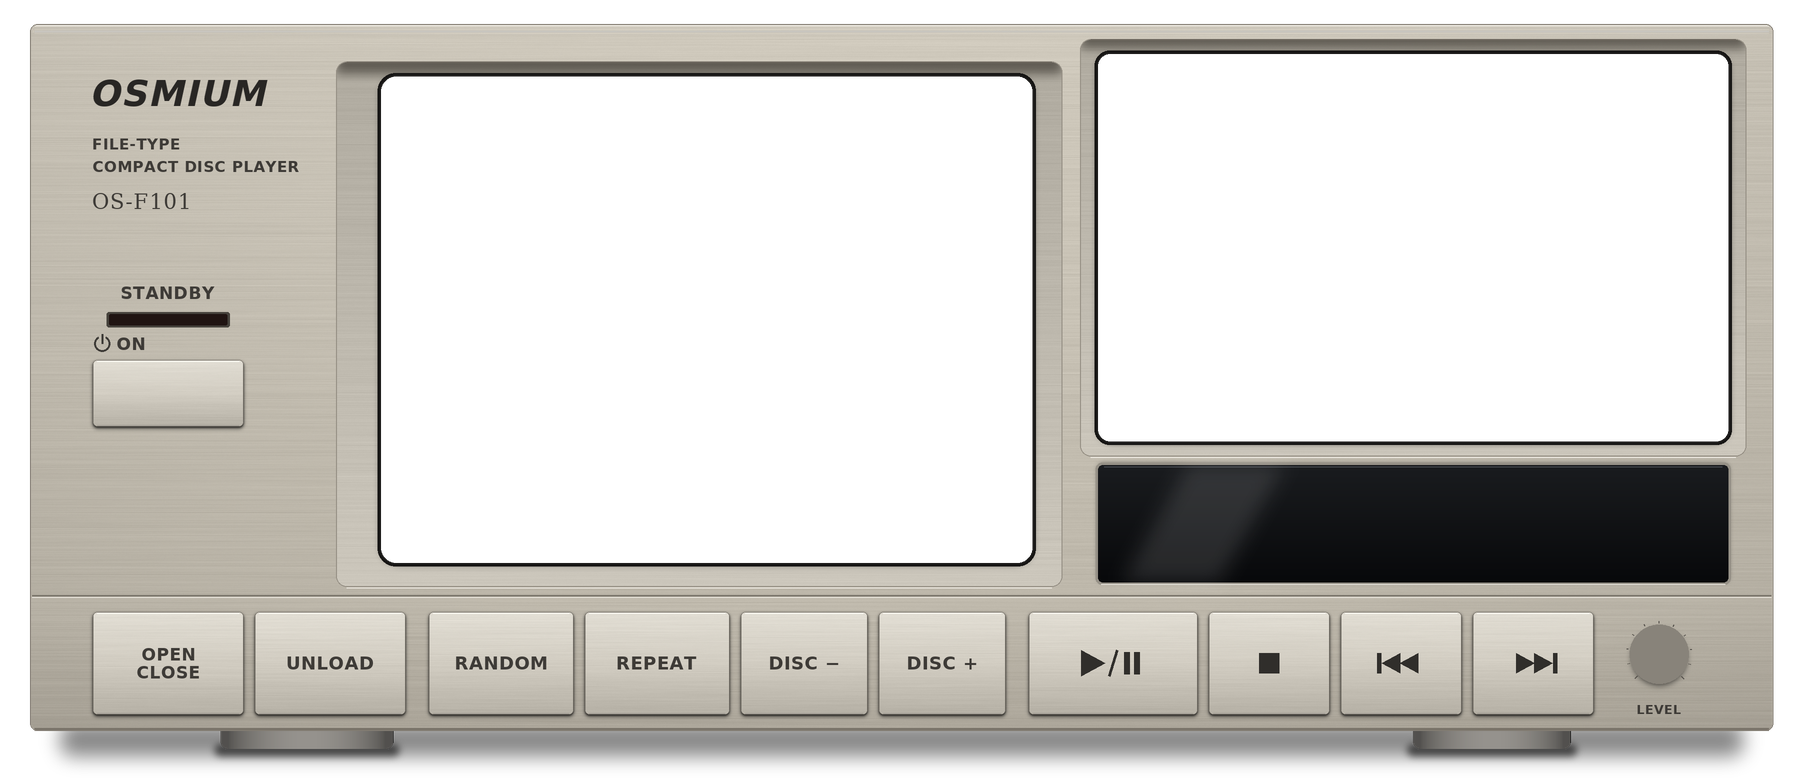
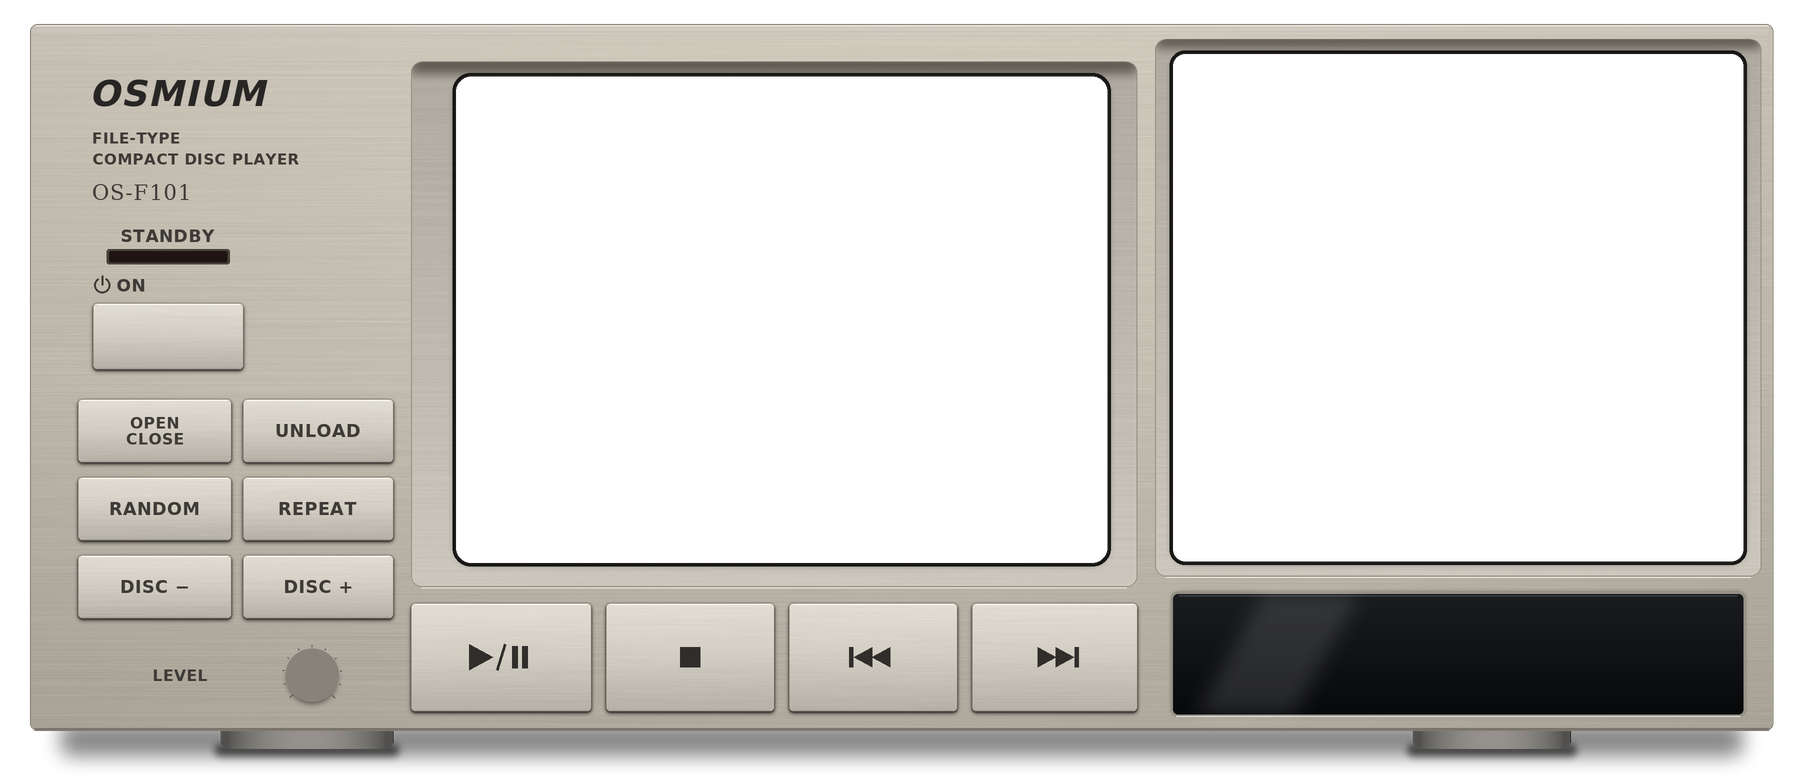
changer: one face, keys left and under the file, the drive window right
No lower strip any more. Left: the name, the standby key with its light
(green when on, red in standby) and six keys in a grid under it (open/
close, unload, random, repeat, disc -/+), the level knob at the foot.
Middle: the file's window with the transport keys under it. Right: the
drive's window nearly full height, its disc larger (154 instead of
120), and the display under it, its disc number set further apart from
the track.

Changed region(s): [[0.0311, 0.0308, 0.9956, 0.9231]]

diff --git a/native-ui-qt/qml/AnimChanger.qml b/native-ui-qt/qml/AnimChanger.qml
@@ -63,10 +63,10 @@ Item {
     function px(v) { return Math.max(1, Math.round(v * root.texScale)) }
 
     // changer.py: GLASS, LOADER_X, DISC_D, KEYS, ROUND, KNOB
-    readonly property var glass: [127, 25.5, 344, 187.5]
+    readonly property var glass: [152, 25.5, 369, 187.5]
     readonly property real winW: glass[2] - glass[0]
     readonly property real winH: glass[3] - glass[1]
-    readonly property real loaderX: 255.5 - glass[0]          // in the window
+    readonly property real loaderX: 128.5                     // in the window
     readonly property real axisX: winW / 2                    // the file's axis
     readonly property real radius: 190                       // to the discs' centres
     readonly property real discD: 128
@@ -79,20 +79,20 @@ Item {
     readonly property real loaderPhi: Math.asin((loaderX - axisX) / radius) * 180 / Math.PI
     readonly property int places: 37                         // discs drawn: those within sight
     // the drive's window (changer.py DRIVE_*)
-    readonly property var driveGlass: [366, 18, 576, 147]
-    readonly property var driveC: [471, 82.5]
-    readonly property real driveDisc: 120
+    readonly property var driveGlass: [391, 18, 581, 187]
+    readonly property var driveC: [486, 102.5]
+    readonly property real driveDisc: 154
 
     readonly property var keys: ({
-        power: [31, 120, 81, 142],
-        eject: [31, 204, 81, 238], unload: [85, 204, 135, 238],
-        random: [143, 204, 191, 238], repeat: [195, 204, 243, 238],
-        discm: [247, 204, 289, 238], discp: [293, 204, 335, 238],
-        play: [343, 204, 399, 238], stop: [403, 204, 443, 238],
-        prev: [447, 204, 487, 238], next: [491, 204, 531, 238]
+        power: [31, 101, 81, 123],
+        eject: [26, 133, 77, 154], unload: [81, 133, 131, 154],
+        random: [26, 159, 77, 180], repeat: [81, 159, 131, 180],
+        discm: [26, 185, 77, 206], discp: [81, 185, 131, 206],
+        play: [137, 201, 197, 237], stop: [202, 201, 258, 237],
+        prev: [263, 201, 319, 237], next: [324, 201, 379, 237]
     })
     readonly property var keyNames: ["power", "random", "repeat", "discm", "discp", "eject", "unload", "play", "stop", "prev", "next"]
-    readonly property var knob: [553, 218]
+    readonly property var knob: [104, 225]
 
     // ── the mechanism ──────────────────────────────────────────────────────
     // drumAngle: the file's turn, in degrees; slot n is at the loader when
@@ -368,7 +368,7 @@ Item {
         if (ch === "-") return "dash"
         return (ch === ch.toUpperCase() ? "u" : "l") + ch.toLowerCase()
     }
-    readonly property var cellX: [410, 422.2, 434.4, 461.4, 473.6, 500.6, 512.8, 532, 544.2]   // changer.py CELL_W 11, CELL_H 19, CELL_Y 163
+    readonly property var cellX: [426, 438.2, 450.4, 478, 490.2, 515, 527.2, 546.6, 558.8]   // changer.py CELL_W 11, CELL_H 19, CELL_Y 206
 
     component Pic: Image {
         smooth: true
@@ -667,45 +667,46 @@ Item {
 
         Pic { id: base; width: 600; height: 260; source: root.assetsBase + "base.png" }
 
+
         Pic {
-            x: 31; y: 100.5; width: 50; height: 12
-            source: root.assetsBase + "led-standby.png"
-            visible: root.live && !root.power
+            x: 31; y: 79.5; width: 50; height: 12
+            // the standby key's light: green when on, red in standby
+            source: root.assetsBase + (root.live && !root.power ? "led-standby.png" : "led-on.png")
         }
 
         // ── the fluorescent display ────────────────────────────────────────
         Item {
             visible: !root.live || root.power
-            Pic { x: 366; y: 155; width: 210; height: 39; source: root.assetsBase + "vfd-panel.png" }
+            Pic { x: 391; y: 198; width: 190; height: 40; source: root.assetsBase + "vfd-panel.png" }
             Repeater {
                 model: 9
                 Pic {
                     required property int index
                     readonly property string ch: root.cells.length === 9 ? root.cells.charAt(index) : " "
-                    x: root.cellX[index] - 1; y: 162; width: 13; height: 21
+                    x: root.cellX[index] - 1; y: 205; width: 13; height: 21
                     visible: ch !== " "
                     source: ch === " " ? "" : root.assetsBase + "g-" + root.glyph(ch) + ".png"
                 }
             }
-            Pic { x: 524.9; y: 162; width: 6; height: 21; source: root.assetsBase + "g-colon.png"; visible: root.timeShown }
+            Pic { x: 539.4; y: 205; width: 6; height: 21; source: root.assetsBase + "g-colon.png"; visible: root.timeShown }
             Pic {
-                x: 409; y: 184; width: 9; height: 9; source: root.assetsBase + "ind-play.png"
+                x: 425; y: 227; width: 9; height: 9; source: root.assetsBase + "ind-play.png"
                 visible: root.timeShown && (root.playing || !root.live)
             }
             Pic {
-                x: 419; y: 184; width: 9; height: 9; source: root.assetsBase + "ind-pause.png"
+                x: 435; y: 227; width: 9; height: 9; source: root.assetsBase + "ind-pause.png"
                 visible: root.timeShown && root.live && !root.playing && root.elapsed > 0
             }
-            Pic { x: 453; y: 186; width: 24.5; height: 6; source: root.assetsBase + "ind-repeat.png"; visible: root.repeatMode > 0 || !root.live }
-            Pic { x: 479; y: 186; width: 12.83; height: 6; source: root.assetsBase + "ind-all.png"; visible: root.repeatMode === 2 || !root.live }
-            Pic { x: 479; y: 185.9; width: 5.17; height: 6.17; source: root.assetsBase + "ind-one.png"; visible: root.live && root.repeatMode === 1 }
-            Pic { x: 497; y: 186; width: 27.83; height: 6; source: root.assetsBase + "ind-random.png"; visible: root.live && root.shuffleMode > 0 }
+            Pic { x: 472; y: 229; width: 24.5; height: 6; source: root.assetsBase + "ind-repeat.png"; visible: root.repeatMode > 0 || !root.live }
+            Pic { x: 498; y: 229; width: 12.83; height: 6; source: root.assetsBase + "ind-all.png"; visible: root.repeatMode === 2 || !root.live }
+            Pic { x: 498; y: 228.9; width: 5.17; height: 6.17; source: root.assetsBase + "ind-one.png"; visible: root.live && root.repeatMode === 1 }
+            Pic { x: 515; y: 229; width: 27.83; height: 6; source: root.assetsBase + "ind-random.png"; visible: root.live && root.shuffleMode > 0 }
         }
 
         // ── the level knob: the volume ─────────────────────────────────────
         Pic {
             id: knobPic
-            x: root.knob[0] - 9.4; y: root.knob[1] - 9.4; width: 18.8; height: 18.8
+            x: root.knob[0] - 8.4; y: root.knob[1] - 8.4; width: 16.8; height: 16.8
             source: root.assetsBase + "knob.png"
             rotation: -135 + 270 * (knobArea.level >= 0 ? knobArea.level : root.volume >= 0 ? root.volume : 40) / 100
             opacity: root.live && root.volumeFixed ? 0.6 : 1

diff --git a/native-ui-qt/tools/np-anim/changer.py b/native-ui-qt/tools/np-anim/changer.py
@@ -30,45 +30,47 @@ SERIF = '/usr/share/fonts/truetype/dejavu/DejaVuSerif.ttf'
 
 # ── geometry (units) ──────────────────────────────────────────────────────
 BODY = (10, 8, 591, 243.5)
-SPLIT_Y = 198.5                      # the lower strip of the face
-RECESS = (112, 20.5, 354, 195.5)     # the window's sunken frame
-GLASS = (127, 25.5, 344, 187.5)      # the hole: the mechanism shows here
+# one face, no lower strip: left the name, standby and six keys; in the
+# middle the file's window with the transport keys under it; right the
+# drive's window nearly full height and the display under it
+RECESS = (137, 20.5, 379, 195.5)     # the window's sunken frame
+GLASS = (152, 25.5, 369, 187.5)      # the hole: the mechanism shows here
 GLASS_R = 5
 # the drive's window, top right: the disc brought from the file onto the
 # laser lens and turning, seen straight from above like the top-loading CD
 # scene (whose disc pictures, assets/anim/cd/, it uses)
-DRIVE_RECESS = (360, 13, 582, 152)
-DRIVE_GLASS = (366, 18, 576, 147)
+DRIVE_RECESS = (385, 13, 587, 192)
+DRIVE_GLASS = (391, 18, 581, 187)
 DRIVE_R = 4
-DRIVE_C = (471, 82.5)                # the spindle
-DRIVE_DISC = 120                     # the disc's diameter there
-VFD = (366, 155, 576, 194)
+DRIVE_C = (486, 102.5)               # the spindle
+DRIVE_DISC = 154                     # the disc's diameter there
+VFD = (391, 198, 581, 238)
 FEET = [(73.5, 131), (471, 523.5)]
 FOOT_Y = (238, 249.5)
 
 # 🚨 Drawn for a screen, not to the real thing's scale: in the Now Playing
 # panel the whole front is ~560 px wide, so the keys are few and large and
 # the lettering is 3.5-6 units tall (the real one's would be 2-3 px).
-# every key but standby along the bottom strip, in three groups
+# standby, then six keys in a grid under it; the transport under the file
 KEYS = {
-    'power': (31, 120, 81, 142),
-    'eject': (31, 204, 81, 238), 'unload': (85, 204, 135, 238),
-    'random': (143, 204, 191, 238), 'repeat': (195, 204, 243, 238),
-    'discm': (247, 204, 289, 238), 'discp': (293, 204, 335, 238),
-    'play': (343, 204, 399, 238), 'stop': (403, 204, 443, 238),
-    'prev': (447, 204, 487, 238), 'next': (491, 204, 531, 238),
+    'power': (31, 101, 81, 123),
+    'eject': (26, 133, 77, 154), 'unload': (81, 133, 131, 154),
+    'random': (26, 159, 77, 180), 'repeat': (81, 159, 131, 180),
+    'discm': (26, 185, 77, 206), 'discp': (81, 185, 131, 206),
+    'play': (137, 201, 197, 237), 'stop': (202, 201, 258, 237),
+    'prev': (263, 201, 319, 237), 'next': (324, 201, 379, 237),
 }
-KNOB = (553, 218)
-KNOB_R = 9
+KNOB = (104, 225)
+KNOB_R = 8
 
 # the window's insides
-LOADER_X = 255.5                     # the loader's column (the LEDs)
+LOADER_X = GLASS[0] + 128.5          # the loader's column (the LEDs)
 LEDS = [(LOADER_X, 116), (LOADER_X, 123.5), (LOADER_X, 131.5)]
 DISC_D = 128                         # disc diameter in units
 VFD_COL = (196, 236, 255)
 
 # the display cells (glyph pictures one unit larger all round, for the glow)
-CELL_W, CELL_H, CELL_Y = 11, 19, 163
+CELL_W, CELL_H, CELL_Y = 11, 19, 206
 
 
 def font(path, size):
@@ -273,9 +275,8 @@ def base():
     # the body
     m = shape_mask(img.size, BODY, 2.5)
     arr = np.zeros((h, w, 3), np.float32)
-    top, split, bot = px(BODY[1]), px(SPLIT_Y), px(BODY[3])
-    arr[top:split] = vgrad(w, split - top, (208, 202, 189), (190, 184, 171), mid=(201, 195, 182))
-    arr[split:bot] = vgrad(w, bot - split, (194, 188, 175), (172, 166, 154))
+    top, bot = px(BODY[1]), px(BODY[3])
+    arr[top:bot] = vgrad(w, bot - top, (208, 202, 189), (176, 170, 158), mid=(198, 192, 179))
     arr += brushed(w, h, 11, 2.4)[..., None]
     # light falling off to the left and right ends
     xs = np.linspace(-1, 1, w, dtype=np.float32)
@@ -287,9 +288,6 @@ def base():
     d.rectangle(box((BODY[0] + 1.5, BODY[1] + 2.2, BODY[2] - 1.5, BODY[1] + 2.6)), fill=(168, 162, 151, 160))
     d.rectangle(box((BODY[0] + 1.5, BODY[3] - 0.8, BODY[2] - 1.5, BODY[3])), fill=(120, 114, 104, 255))
     d.rounded_rectangle(box(BODY), px(2.5), outline=(130, 124, 114, 255), width=px(0.3))
-    # the groove between the face and the lower strip
-    d.line([px(BODY[0] + 0.6), px(SPLIT_Y), px(BODY[2] - 0.6), px(SPLIT_Y)], fill=(122, 117, 107, 255), width=px(0.45))
-    d.line([px(BODY[0] + 0.6), px(SPLIT_Y + 0.55), px(BODY[2] - 0.6), px(SPLIT_Y + 0.55)], fill=(226, 222, 213, 255), width=px(0.3))
 
     # the window
     recess(img, RECESS, 3.5)
@@ -330,26 +328,26 @@ def base():
 
     # the name and the printing
     text(img, 'OSMIUM', 31, 31, 12, (40, 38, 36, 255), anchor='lm', path=SANSB, spacing=0.3, italic=0.22)
-    text(img, 'FILE-TYPE', 31, 48, 5.0, INK, anchor='lm', path=SANSB, spacing=0.2)
-    text(img, 'COMPACT DISC PLAYER', 31, 55.5, 5.0, INK, anchor='lm', path=SANSB, spacing=0.1)
-    text(img, 'OS-F101', 31, 67, 7.0, INK, anchor='lm', path=SERIF, spacing=0.3)
-    text(img, 'STANDBY', 56, 97.5, 5.6, INK, path=SANSB, spacing=0.2)
+    text(img, 'FILE-TYPE', 31, 46, 5.0, INK, anchor='lm', path=SANSB, spacing=0.2)
+    text(img, 'COMPACT DISC PLAYER', 31, 53, 5.0, INK, anchor='lm', path=SANSB, spacing=0.1)
+    text(img, 'OS-F101', 31, 64, 7.0, INK, anchor='lm', path=SERIF, spacing=0.3)
+    text(img, 'STANDBY', 56, 78.5, 5.6, INK, path=SANSB, spacing=0.2)
     d = ImageDraw.Draw(img)
-    d.rounded_rectangle(box((35.5, 104, 76.5, 109)), px(0.8), fill=(70, 66, 60, 255))
-    d.rounded_rectangle(box((36.3, 104.7, 75.7, 108.3)), px(0.5), fill=(32, 20, 18, 255))
+    d.rounded_rectangle(box((35.5, 83, 76.5, 88)), px(0.8), fill=(70, 66, 60, 255))
+    d.rounded_rectangle(box((36.3, 83.7, 75.7, 87.3)), px(0.5), fill=(32, 20, 18, 255))
     # power symbol + STANDBY/ON
-    cx, cy, rr = 34, 114.5, 2.6
+    cx, cy, rr = 34, 95, 2.6
     d.arc(box((cx - rr, cy - rr, cx + rr, cy + rr)), -60, 240, fill=INK, width=px(0.7))
     d.line([px(cx), px(cy - rr - 0.6), px(cx), px(cy)], fill=INK, width=px(0.7))
-    text(img, 'ON', 39, 114.5, 5.6, INK, anchor='lm', path=SANSB, spacing=0.2)
+    text(img, 'ON', 39, 95, 5.6, INK, anchor='lm', path=SANSB, spacing=0.2)
     labels = {'power': None, 'random': 'RANDOM', 'repeat': 'REPEAT', 'discm': 'DISC \u2212', 'discp': 'DISC +',
               'eject': 'OPEN\nCLOSE', 'unload': 'UNLOAD'}
     syms = {'play': 'playpause', 'stop': 'stop', 'prev': 'prev', 'next': 'next'}
     for k, b in KEYS.items():
-        size = 5.6 if k == 'eject' else 6.0
+        size = 5.2 if k == 'eject' else 5.8
         keycap(img, b, label=labels.get(k), lsize=size, sym=syms.get(k), symk=2.2)
 
-    text(img, 'LEVEL', KNOB[0], 236.5, 4.2, INK, path=SANSB, spacing=0.1)
+    text(img, 'LEVEL', 60, KNOB[1], 5.2, INK, path=SANSB, spacing=0.15)
     d = ImageDraw.Draw(img)
     # the knob's collar and shadow (the knob itself turns: knob.png)
     kx, ky = KNOB
@@ -388,25 +386,26 @@ def knob():
     save(finish(img, k=8), 'knob.png')
 
 
-def standby_led():
-    b = (36.3, 104.7, 75.7, 108.3)
+def standby_led(name, glow_rgb, core_rgb, hot_rgb):
+    """The light over the standby key: red in standby, green when on."""
+    b = (36.3, 83.7, 75.7, 87.3)
     img = canvas(50, 12)
-    ox, oy = 31, 100.5
+    ox, oy = 31, 79.5
     g = Image.new('L', img.size, 0)
     ImageDraw.Draw(g).rounded_rectangle(box((b[0] - ox, b[1] - oy, b[2] - ox, b[3] - oy)), px(0.4), fill=255)
     glow = g.filter(ImageFilter.GaussianBlur(px(1.4)))
-    lay = Image.new('RGBA', img.size, (255, 40, 30, 0))
+    lay = Image.new('RGBA', img.size, glow_rgb + (0,))
     lay.putalpha(glow.point(lambda v: int(v * 0.55)))
     img.alpha_composite(lay)
-    core = Image.new('RGBA', img.size, (255, 70, 55, 0))
+    core = Image.new('RGBA', img.size, core_rgb + (0,))
     core.putalpha(g)
     img.alpha_composite(core)
     hot = Image.new('L', img.size, 0)
     ImageDraw.Draw(hot).rounded_rectangle(box((b[0] - ox + 1, b[1] - oy + 0.6, b[2] - ox - 1, b[3] - oy - 0.6)), px(0.3), fill=150)
-    lay = Image.new('RGBA', img.size, (255, 190, 170, 0))
+    lay = Image.new('RGBA', img.size, hot_rgb + (0,))
     lay.putalpha(hot.filter(ImageFilter.GaussianBlur(px(0.4))))
     img.alpha_composite(lay)
-    save(finish(img), 'led-standby.png')
+    save(finish(img), name)
 
 
 # ── the window: insides, lip, glass ───────────────────────────────────────
@@ -868,16 +867,16 @@ def vfd_panel():
         a = lay.getchannel('A')
         dim.paste(Image.new('L', a.size, 185), (int(px(x - ox) - a.width / 2), int(px(y - oy) - a.height / 2)), a)
 
-    cap('DISC', 427.7, 159)
-    cap('TRACK', 473, 159)
-    cap('MIN', 512.2, 159)
-    cap('SEC', 543.6, 159)
+    cap('DISC', 443.7, 202.5)
+    cap('TRACK', 489.6, 202.5)
+    cap('MIN', 526.6, 202.5)
+    cap('SEC', 558.2, 202.5)
     # the logo: a disc with a swoosh, "101-DISC" under it
-    cx, cy = 378 - ox, 168 - oy
+    cx, cy = 401 - ox, 212 - oy
     d.ellipse(box((cx - 6, cy - 6, cx + 6, cy + 6)), outline=255, width=px(1.0))
     d.ellipse(box((cx - 1.5, cy - 1.5, cx + 1.5, cy + 1.5)), fill=255)
     d.arc(box((cx - 4, cy - 4, cx + 4, cy + 4)), 200, 320, fill=255, width=px(0.9))
-    lay = text_layer('FILE', 6.4, (255, 255, 255, 255), path=SANSB, spacing=0.15, italic=0.18)
+    lay = text_layer('FILE', 5.2, (255, 255, 255, 255), path=SANSB, spacing=0.12, italic=0.18)
     m.paste(Image.new('L', lay.size, 255), (int(px(cx + 8)), int(px(cy - 1) - lay.height / 2)), lay.getchannel('A'))
     lay = text_layer('101-DISC', 4.0, (255, 255, 255, 255), path=SANSB, spacing=0.15)
     m.paste(Image.new('L', lay.size, 230), (int(px(cx - 6)), int(px(cy + 11.5) - lay.height / 2)), lay.getchannel('A'))
@@ -894,7 +893,8 @@ def main():
     os.makedirs(OUT, exist_ok=True)
     base()
     knob()
-    standby_led()
+    standby_led('led-standby.png', (255, 40, 30), (255, 70, 55), (255, 190, 170))
+    standby_led('led-on.png', (40, 230, 90), (70, 240, 110), (200, 255, 210))
     interior()
     led_glow()
     led_dots()
